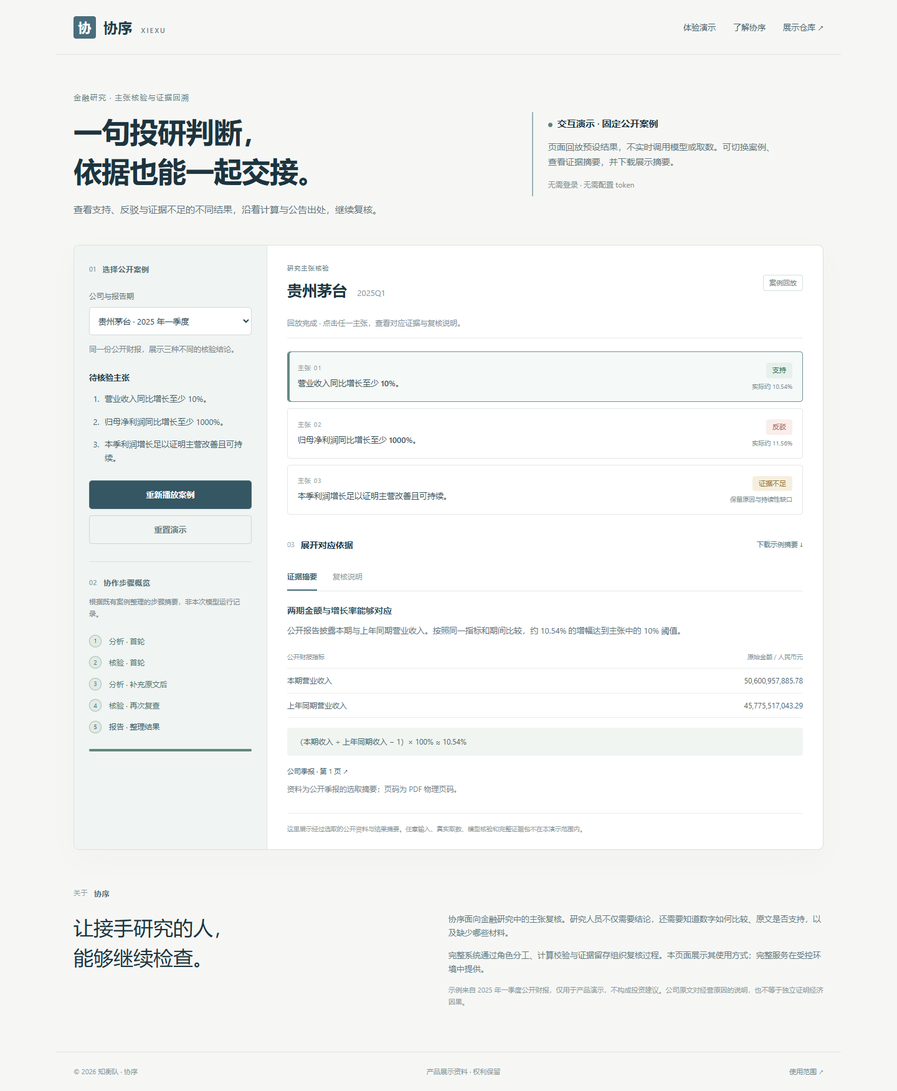
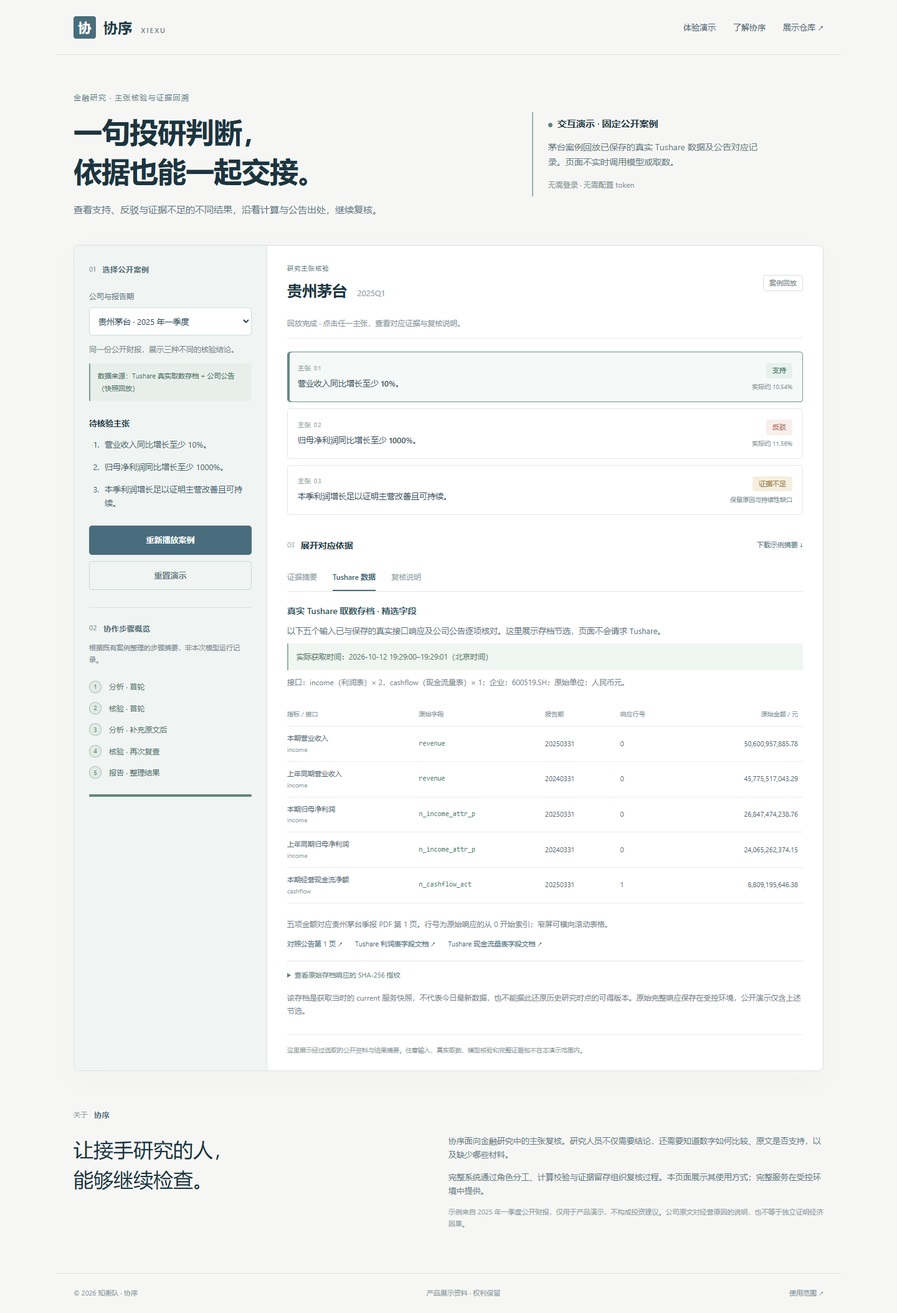
Show verified Tushare snapshot provenance in the product demo

diff --git a/styles.css b/styles.css
@@ -1,1 +1,13 @@
 *{box-sizing:border-box}html{scroll-behavior:smooth;scroll-padding-top:28px}body{margin:0;color:#1d343e;background:#f6f7f5;font-family:"Segoe UI","Microsoft YaHei","PingFang SC",sans-serif;font-size:15px;line-height:1.7}a{color:#3d6677;text-underline-offset:4px}button,select{font:inherit}button{cursor:pointer}button:disabled{cursor:default;opacity:.65}[hidden]{display:none!important}:focus-visible{outline:3px solid #c58b43;outline-offset:4px}.skip{position:fixed;top:-80px;left:18px;padding:10px 18px;background:white;z-index:10}.skip:focus{top:10px}.site-header{max-width:1260px;margin:auto;padding:24px 28px;display:flex;align-items:center;justify-content:space-between;border-bottom:1px solid #dce3df}.brand{display:flex;align-items:center;gap:12px;text-decoration:none;font-weight:700;font-size:23px;color:#203d49}.brand-mark{display:grid;place-items:center;width:36px;height:36px;color:#fff;background:#496d7c;font-size:21px;border-radius:4px}.brand small{font-size:11px;letter-spacing:2px;margin-left:8px;font-weight:500;color:#6d8187}nav{display:flex;gap:28px}nav a{font-size:13px;text-decoration:none;color:#49616b}nav a:hover{text-decoration:underline}main{max-width:1260px;margin:auto;padding:0 28px}.hero{display:grid;grid-template-columns:1.4fr 1fr;gap:80px;align-items:center;padding:58px 0 44px}.eyebrow{font-size:12px;letter-spacing:1.3px;color:#657e87;margin:0 0 13px}h1{font-size:46px;line-height:1.35;letter-spacing:-1px;margin:0;font-weight:650}h2,h3,p{overflow-wrap:anywhere}.hero-description{color:#5d737b;margin:20px 0 0;font-size:15px}.demo-note{border-left:2px solid #9ab1b5;padding:6px 0 6px 24px;max-width:390px}.demo-note strong{font-weight:600}.demo-note p{font-size:14px;color:#657880;margin:12px 0}.note-dot{display:inline-block;width:7px;height:7px;border-radius:50%;background:#5b817e;margin-right:8px}.note-caption{font-size:12px;color:#7f8e91}.workspace{display:grid;grid-template-columns:310px 1fr;border:1px solid #d9e1df;border-radius:9px;overflow:hidden;background:#fff;box-shadow:0 15px 45px #1c343b05;align-items:start}.case-panel{background:#f0f4f2;padding:28px 24px;align-self:stretch;border-right:1px solid #dbe4df}.section-label{display:flex;align-items:center;gap:10px;font-size:12px;letter-spacing:.5px;color:#4f6c75;font-weight:600}.section-label>span{font-size:11px;color:#8d9c9d;font-weight:500}.field-label{display:block;font-size:12px;margin:22px 0 8px;color:#61767d}select{width:100%;padding:12px 10px;color:#254550;background:#fff;border:1px solid #cfdbd6;border-radius:5px;font-size:13px}.muted{font-size:12px;color:#74858b}.small-title{font-size:13px;font-weight:600;margin:25px 0 12px}.input-claims{padding-left:20px;margin:0 0 25px;color:#425e68;font-size:13px}.input-claims li{padding-left:5px;margin:0 0 14px}.button{width:100%;padding:11px 12px;border-radius:5px;font-size:13px;font-weight:600}.primary{border:1px solid #496d7c;background:#496d7c;color:white}.primary:hover:not(:disabled){background:#355663}.secondary{background:transparent;border:1px solid #cbd8d2;color:#647a81;margin-top:10px}.secondary:hover:not(:disabled){background:#e7eeea}.playback-block{border-top:1px solid #d8e1dd;margin-top:28px;padding-top:23px}.playback-note{font-size:11px;margin:12px 0 17px}.steps{list-style:none;padding:0;margin:0}.steps li{display:flex;align-items:center;gap:12px;font-size:12px;color:#8c9b9d;padding:7px 0;transition:color .2s}.step-dot{display:grid;place-items:center;flex:none;width:20px;height:20px;border:1px solid #c9d6d0;border-radius:50%;font-size:10px}.steps li.done{color:#4f736c}.steps li.done .step-dot{background:#e2ebe5;border-color:#a6beb0}.steps li.active{color:#244b60;font-weight:600}.steps li.active .step-dot{background:#496d7c;color:white;border-color:#496d7c}progress{display:block;margin-top:18px;height:4px;width:100%;border:0;appearance:none;background:#dce5df;color:#62877b;border-radius:3px}progress::-webkit-progress-bar{background:#dce5df;border-radius:3px}progress::-webkit-progress-value{background:#62877b;border-radius:3px}progress::-moz-progress-bar{background:#62877b}.result-panel{padding:28px 32px 24px;min-width:0}.panel-header{display:flex;justify-content:space-between;align-items:center;gap:20px}.panel-header .eyebrow{font-size:10px;margin-bottom:6px}.panel-header h2{font-size:24px;margin:0;font-weight:600}.panel-header h2 span{font-size:13px;color:#819299;font-weight:400;margin-left:10px}.mode-label{border:1px solid #d4e0da;border-radius:4px;font-size:11px;padding:3px 9px;color:#6d827b;white-space:nowrap}.status{font-size:12px;color:#7d8f95;padding:14px 0;margin:8px 0 0;border-bottom:1px solid #e7ece8;min-height:48px}.empty-state{display:flex;align-items:center;justify-content:center;flex-direction:column;text-align:center;min-height:494px;padding:35px 25px}.empty-symbol{font-family:Georgia,serif;font-size:85px;line-height:.8;color:#c3d2ce}.empty-state h3{font-size:22px;font-weight:500;margin:25px 0 12px}.empty-state p{font-size:13px;max-width:340px;color:#7f8f93;margin:0}.outcome-legend{display:flex;gap:10px;margin-top:28px}.tag{display:inline-block;font-size:11px;padding:3px 10px;border-radius:4px;white-space:nowrap;font-weight:500}.support{background:#e6f1eb;color:#356b57}.refute{background:#f8eeeb;color:#aa5a48}.insufficient{background:#f6efdf;color:#947337}.claim-results{display:grid;gap:10px;margin-top:21px}.claim-result{display:flex;align-items:center;justify-content:space-between;gap:18px;padding:15px 16px;background:#fff;border:1px solid #e2e7e3;border-radius:5px;text-align:left;width:100%;color:#344d57}.claim-result:hover{background:#f7faf8}.claim-result[aria-pressed="true"]{border-color:#6c9092;background:#f5f9f7;box-shadow:inset 3px 0 #628982}.claim-number{display:block;font-size:10px;color:#8b9c9e;margin-bottom:3px;letter-spacing:1px}.claim-title{font-size:13px;font-weight:500}.claim-end{text-align:right;min-width:78px}.claim-value{display:block;color:#809095;font-size:10px;margin-top:5px}.evidence-header{display:flex;align-items:center;justify-content:space-between;gap:10px;margin-top:31px}.evidence-header>div{display:flex;align-items:center;gap:10px}.section-number{font-size:11px;color:#9aa8a7}.evidence-header h3{font-size:14px;margin:0;font-weight:600}.text-button{border:0;background:transparent;font-size:11px;color:#527580;padding:8px 0}.text-button:hover{text-decoration:underline}.tabs{display:flex;gap:25px;border-bottom:1px solid #e1e9e4;margin:13px 0 0}.tabs button{border:0;border-bottom:2px solid transparent;background:transparent;padding:10px 0;color:#8b9a9d;font-size:12px}.tabs button[aria-selected="true"]{color:#365d6b;border-color:#496d7c;font-weight:600}.detail-panel{padding:19px 0 3px;min-height:270px;font-size:13px;color:#5a7079}.detail-panel h4{font-size:14px;color:#365763;margin:0 0 10px;font-weight:600}.detail-panel p{margin:9px 0}.detail-panel ul{margin:11px 0;padding-left:18px}.detail-panel li{margin:5px 0}table{width:100%;border-collapse:collapse;font-size:12px;margin:14px 0;color:#4e6670}th,td{text-align:left;padding:9px 0;border-bottom:1px solid #e8ede9;font-weight:400}th{font-size:10px;color:#86969c}td:last-child,th:last-child{text-align:right;font-variant-numeric:tabular-nums}.formula{background:#f0f5f2;padding:12px 14px;border-radius:4px;font-size:12px;color:#45665f;margin:16px 0}.source-links{display:flex;flex-wrap:wrap;gap:10px 20px;margin-top:13px}.source-links a{font-size:11px;text-decoration:none}.source-links a:hover{text-decoration:underline}blockquote{margin:12px 0;padding:9px 14px;border-left:2px solid #aac0b6;background:#f8faf8;color:#4b6568}.gap-note{padding:12px 14px;background:#fbf7ed;border-left:2px solid #ccb27e;color:#846e43;font-size:12px;margin-top:14px}.result-footnote{border-top:1px solid #e8eeea;color:#91a0a2;font-size:10px;padding-top:16px;margin:16px 0 0}.about{display:grid;grid-template-columns:1fr 1.2fr;column-gap:100px;padding:60px 0 56px}.about>.section-label{grid-column:1/-1;margin-bottom:20px}.about h2{font-size:32px;line-height:1.5;font-weight:500;margin:0}.about-copy p{font-size:13px;color:#627780;margin:0 0 14px}.about-copy .muted{font-size:11px;color:#8a989b}footer{max-width:1260px;border-top:1px solid #dce3df;margin:auto;display:flex;gap:25px;justify-content:space-between;padding:22px 28px;color:#87969a;font-size:11px}footer a{font-size:11px;text-decoration:none;color:#768b90}@media(max-width:950px){.hero{gap:35px}h1{font-size:37px}.workspace{grid-template-columns:275px 1fr}.case-panel{padding:24px 20px}.result-panel{padding:24px 22px}.about{column-gap:40px}}@media(max-width:720px){.site-header{padding:18px 20px}.brand{font-size:21px}.brand small{display:none}nav{gap:14px}nav a{font-size:11px}nav a:nth-child(2){display:none}main{padding:0 16px}.hero{display:block;padding:32px 4px}h1{font-size:34px}.hero-description{font-size:13px}.demo-note{max-width:none;margin-top:26px;padding-left:17px}.demo-note p{font-size:12px}.workspace{grid-template-columns:1fr}.case-panel{border-right:0;border-bottom:1px solid #dbe4df}.playback-block{margin-top:21px;padding-top:18px}.steps{display:flex;flex-wrap:wrap;gap:5px 14px}.steps li{font-size:10px;gap:6px}.playback-note{font-size:10px}.input-claims{font-size:12px}.input-claims li{margin-bottom:9px}.field-label{margin-top:18px}.result-panel{padding:23px 18px}.panel-header h2{font-size:21px}.claim-result{padding:13px 12px}.claim-title{font-size:12px}.claim-end{min-width:65px}.evidence-header{margin-top:24px}.text-button{font-size:10px}.detail-panel{font-size:12px}table{font-size:11px}.empty-state{min-height:300px}.empty-state h3{font-size:20px}.about{display:block;padding:38px 4px}.about h2{font-size:27px;margin:20px 0}.about-copy p{font-size:12px}footer{padding:20px;flex-wrap:wrap;gap:8px 20px;font-size:10px}}@media(prefers-reduced-motion:reduce){html{scroll-behavior:auto}*{transition:none!important}}
+.data-origin{margin:13px 0 0;padding:10px 12px;border-left:2px solid #789d94;background:#e8efea;color:#456b62;font-size:11px;line-height:1.8}
+.snapshot-caption{padding:11px 13px;border-left:2px solid #94b1a5;background:#f0f6f1;color:#4b7065;font-size:12px}
+.snapshot-table-wrap{max-width:100%;overflow-x:auto;overscroll-behavior-x:contain}
+.snapshot-table{min-width:665px;font-size:11px;table-layout:auto}
+.snapshot-table th,.snapshot-table td{padding:10px 8px;white-space:nowrap}
+.snapshot-table th:first-child,.snapshot-table td:first-child{padding-left:0}
+.snapshot-table small{display:block;color:#8a9b99;font-size:10px}
+.field-code{font-family:Consolas,monospace;font-size:11px;color:#517e75}
+.snapshot-fingerprints{border-top:1px solid #e1e8e3;margin:17px 0;padding-top:13px;font-size:11px}
+.snapshot-fingerprints summary{cursor:pointer;color:#607d7d}
+.snapshot-fingerprints p{margin:13px 0 4px}
+.snapshot-fingerprints code{display:block;overflow-wrap:anywhere;font-size:10px;color:#819290}

diff --git a/demo.js b/demo.js
@@ -6,6 +6,21 @@ const CASES = {
     company: "贵州茅台", code: "600519.SH", period: "2025Q1",
     description: "同一份公开财报，展示三种不同的核验结论。",
     source: "https://www.moutaichina.com/mtgf/articleFileDir/2025-05/08/3329e26c2c524b318c83e6296e354021.pdf",
+    snapshot: {
+      capturedAt: "2026-10-12 19:29:00–19:29:01（北京时间）",
+      rows: [
+        ["本期营业收入", "income", "revenue", "20250331", "50,600,957,885.78", "0"],
+        ["上年同期营业收入", "income", "revenue", "20240331", "45,775,517,043.29", "0"],
+        ["本期归母净利润", "income", "n_income_attr_p", "20250331", "26,847,474,238.76", "0"],
+        ["上年同期归母净利润", "income", "n_income_attr_p", "20240331", "24,065,262,374.15", "0"],
+        ["本期经营现金流净额", "cashflow", "n_cashflow_act", "20250331", "8,809,195,646.38", "1"]
+      ],
+      fingerprints: [
[3 lines of base64/hex data omitted]
+      ]
+    },
     steps: ["分析 · 首轮", "核验 · 首轮", "分析 · 补充原文后", "核验 · 再次复查", "报告 · 整理结果"],
     claims: [
       {
@@ -57,6 +72,7 @@ const CASES = {
 };
 
 const $ = id => document.getElementById(id);
+const TABS = ["evidence", "data", "review"];
 let currentKey = "maotai";
 let selectedClaim = 0;
 let ready = false;
@@ -72,7 +88,7 @@ function el(tag, className, text) {
 
 function setTab(name, moveFocus = false) {
   chosenTab = name;
-  for (const key of ["evidence", "review"]) {
+  for (const key of TABS) {
     const active = key === name;
     $(key + "-tab").setAttribute("aria-selected", String(active));
     $(key + "-tab").tabIndex = active ? 0 : -1;
@@ -86,6 +102,8 @@ function renderCase() {
   ready = false;
   selectedClaim = 0;
   $("case-description").textContent = data.description;
+  $("data-origin").textContent = data.snapshot ? "数据来源：Tushare 真实取数存档 + 公司公告（快照回放）" : "数据来源：公司公开公告（原文核对案例）";
+  $("data-tab").textContent = data.snapshot ? "Tushare 数据" : "资料来源";
   $("input-claims").replaceChildren(...data.claims.map(c => el("li", "", c.title)));
   $("result-company").replaceChildren(document.createTextNode(data.company + " "), el("span", "", data.period));
   $("steps").replaceChildren(...data.steps.map((text, i) => {
@@ -111,7 +129,7 @@ function renderEvidence() {
     const table = el("table");
     const thead = el("thead");
     const header = el("tr");
-    for (const label of ["公开财报指标", "原始金额 / 人民币元"]) {
+    for (const label of [data.snapshot ? "Tushare 存档指标" : "公开财报指标", "原始金额 / 人民币元"]) {
       const th = el("th", "", label);
       th.scope = "col";
       header.append(th);
@@ -146,10 +164,71 @@ function renderEvidence() {
     links.append(a);
   }
   panel.append(links, el("p", "muted", "资料为公开季报的选取摘要；页码为 PDF 物理页码。"));
+  if (data.snapshot) panel.append(el("p", "snapshot-caption", "金额来自已保存的真实 Tushare 接口响应，并与公告对应。获取时间：" + data.snapshot.capturedAt + "。在“Tushare 数据”页签可查看精选字段与原值。"));
   const list = el("ul");
   list.append(...c.review.map(text => el("li", "", text)));
   $("review-panel").replaceChildren(el("h4", "", "为什么得到这个结果"), list,
     el("p", "muted", "页面仅回放预设结果与步骤概述，没有执行新的分析、核验或模型调用。"));
+}
+
+function renderSnapshot() {
+  const data = CASES[currentKey];
+  const panel = $("data-panel");
+  panel.replaceChildren();
+  if (!data.snapshot) {
+    panel.append(el("h4", "", "本案例使用公司公开公告"),
+      el("p", "", "美的案例核对两处公司原文，没有使用 Tushare 取数快照。需要查看接口数据展示，可切换至贵州茅台案例。"));
+    const a = el("a", "", "打开公司季报 ↗");
+    a.href = data.source;
+    a.target = "_blank";
+    a.rel = "noopener noreferrer";
+    panel.append(a);
+    return;
+  }
+  const snapshot = data.snapshot;
+  panel.append(el("h4", "", "真实 Tushare 取数存档 · 精选字段"),
+    el("p", "", "以下五个输入已与保存的真实接口响应及公司公告逐项核对。这里展示存档节选，页面不会请求 Tushare。"),
+    el("p", "snapshot-caption", "实际获取时间：" + snapshot.capturedAt),
+    el("p", "muted", "接口：income（利润表）× 2，cashflow（现金流量表）× 1；企业：600519.SH；原始单位：人民币元。"));
+  const wrapper = el("div", "snapshot-table-wrap");
+  wrapper.tabIndex = 0;
+  wrapper.setAttribute("role", "region");
+  wrapper.setAttribute("aria-label", "Tushare 精选字段表，可左右滚动");
+  const table = el("table", "snapshot-table");
+  const thead = el("thead");
+  const header = el("tr");
+  for (const title of ["指标 / 接口", "原始字段", "报告期", "响应行号", "原始金额 / 元"]) {
+    const th = el("th", "", title);
+    th.scope = "col";
+    header.append(th);
+  }
+  thead.append(header);
+  const tbody = el("tbody");
+  for (const row of snapshot.rows) {
+    const tr = el("tr");
+    const label = el("td");
+    label.append(document.createTextNode(row[0]), el("small", "", row[1]));
+    tr.append(label, el("td", "field-code", row[2]), el("td", "", row[3]), el("td", "", row[5]), el("td", "", row[4]));
+    tbody.append(tr);
+  }
+  table.append(thead, tbody);
+  wrapper.append(table);
+  panel.append(wrapper, el("p", "muted", "五项金额对应贵州茅台季报 PDF 第 1 页。行号为原始响应的从 0 开始索引；窄屏可横向滚动表格。"));
+  const linkRow = el("div", "source-links");
+  for (const [title, href] of [["对照公告第 1 页", data.source + "#page=1"], ["Tushare 利润表字段文档", "https://tushare.pro/document/2?doc_id=33"], ["Tushare 现金流量表字段文档", "https://tushare.pro/document/2?doc_id=44"]]) {
+    const a = el("a", "", title + " ↗");
+    a.href = href;
+    a.target = "_blank";
+    a.rel = "noopener noreferrer";
+    linkRow.append(a);
+  }
+  panel.append(linkRow);
+  const fingerprints = el("details", "snapshot-fingerprints");
+  fingerprints.append(el("summary", "", "查看原始存档响应的 SHA-256 指纹"));
+  for (const [label, digest] of snapshot.fingerprints) {
+    fingerprints.append(el("p", "muted", label), el("code", "", digest));
+  }
+  panel.append(fingerprints, el("p", "muted", "该存档是获取当时的 current 服务快照，不代表今日最新数据，也不能据此还原历史研究时点的可得版本。原始完整响应保存在受控环境，公开演示仅含上述节选。"));
 }
 
 function renderResults() {
@@ -170,6 +249,7 @@ function renderResults() {
     return button;
   }));
   renderEvidence();
+  renderSnapshot();
   setTab(chosenTab);
 }
 
@@ -218,6 +298,12 @@ function downloadSummary() {
   const data = CASES[currentKey];
   const lines = ["协序 · 产品演示摘要", data.company + " / " + data.code + " / " + data.period, "",
     "固定案例回放；不代表本次执行了真实模型核验或数据获取。", ""];
+  if (data.snapshot) {
+    lines.push("金额来源：已保存的真实 Tushare 取数快照，并与公司公告核对。", "实际获取时间：" + data.snapshot.capturedAt,
+      "精选字段（指标 / 接口 / 字段 / 报告期 / 原始金额，人民币元 / 从0开始响应行号）：");
+    for (const row of data.snapshot.rows) lines.push(row.join(" / "));
+    lines.push("该存档不代表今日最新数据，不用于直接还原历史时点可得版本。", "");
+  } else lines.push("本案例资料来源：公司公开公告；未使用 Tushare 取数快照。", "");
   data.claims.forEach((c, i) => {
     lines.push("主张 " + (i + 1) + "：" + c.title, "展示结果：" + c.status + "；" + c.value, c.description);
     for (const row of c.rows || []) lines.push(row[0] + "：" + row[1] + " 元");
@@ -247,12 +333,13 @@ $("case-select").addEventListener("change", event => {
 $("run-demo").addEventListener("click", runPlayback);
 $("reset-demo").addEventListener("click", () => { if (!playing) renderCase(); });
 $("download-summary").addEventListener("click", downloadSummary);
-for (const name of ["evidence", "review"]) {
+for (const name of TABS) {
   $(name + "-tab").addEventListener("click", () => setTab(name));
   $(name + "-tab").addEventListener("keydown", event => {
     if (event.key === "ArrowLeft" || event.key === "ArrowRight") {
       event.preventDefault();
-      setTab(name === "evidence" ? "review" : "evidence", true);
+      const offset = event.key === "ArrowRight" ? 1 : -1;
+      setTab(TABS[(TABS.indexOf(name) + offset + TABS.length) % TABS.length], true);
     }
   });
 }

diff --git a/index.html b/index.html
@@ -3,13 +3,13 @@
 <head>
   <meta charset="utf-8">
   <meta name="viewport" content="width=device-width,initial-scale=1">
-  <meta name="description" content="协序产品演示：通过固定公开财报案例，体验研究主张核验、证据摘要与多角色复核过程。">
+  <meta name="description" content="协序产品演示：回放已保存的真实 Tushare 财务数据与公告核对案例，体验研究主张核验和证据回溯。">
   <meta http-equiv="Content-Security-Policy" content="default-src 'none'; script-src 'self'; style-src 'self'; img-src 'self' data:; connect-src 'none'; base-uri 'none'; form-action 'none'; object-src 'none'">
   <meta name="theme-color" content="#496d7c">
   <title>协序 · 产品演示</title>
   <link rel="icon" href="assets/mark.svg" type="image/svg+xml">
-  <link rel="stylesheet" href="styles.css">
-  <script src="demo.js" defer></script>
+  <link rel="stylesheet" href="styles.css?v=20261027-tushare">
+  <script src="demo.js?v=20261027-tushare" defer></script>
 </head>
 <body>
   <a class="skip" href="#workspace">跳到演示工作台</a>
@@ -26,7 +26,7 @@
       </div>
       <aside class="demo-note" aria-label="演示范围">
         <span class="note-dot" aria-hidden="true"></span><strong>交互演示 · 固定公开案例</strong>
-        <p>页面回放预设结果，不实时调用模型或取数。可切换案例、查看证据摘要，并下载展示摘要。</p>
+        <p>茅台案例回放已保存的真实 Tushare 数据及公告对应记录。页面不实时调用模型或取数。</p>
         <span class="note-caption">无需登录 · 无需配置 token</span>
       </aside>
     </section>
@@ -39,6 +39,7 @@
           <option value="midea">美的集团 · 2025 年一季度</option>
         </select>
         <p id="case-description" class="muted"></p>
+        <p id="data-origin" class="data-origin"></p>
         <h2 class="small-title">待核验主张</h2>
         <ol id="input-claims" class="input-claims"></ol>
         <button id="run-demo" class="button primary" type="button">播放案例</button>
@@ -70,9 +71,11 @@
           </div>
           <div class="tabs" role="tablist" aria-label="结果详情">
             <button id="evidence-tab" role="tab" aria-selected="true" aria-controls="evidence-panel" tabindex="0">证据摘要</button>
+            <button id="data-tab" role="tab" aria-selected="false" aria-controls="data-panel" tabindex="-1">Tushare 数据</button>
             <button id="review-tab" role="tab" aria-selected="false" aria-controls="review-panel" tabindex="-1">复核说明</button>
           </div>
           <section id="evidence-panel" class="detail-panel" role="tabpanel" aria-labelledby="evidence-tab"></section>
+          <section id="data-panel" class="detail-panel" role="tabpanel" aria-labelledby="data-tab" hidden></section>
           <section id="review-panel" class="detail-panel" role="tabpanel" aria-labelledby="review-tab" hidden></section>
           <p class="result-footnote">这里展示经过选取的公开资料与结果摘要。任意输入、真实取数、模型核验和完整证据包不在本演示范围内。</p>
         </div>

diff --git a/SOURCES.md b/SOURCES.md
@@ -1,6 +1,24 @@
 # 公开案例资料
 
-演示仅保留说明结果所需的少量金额及原文摘要，不分发整份财报。
+演示仅保留说明结果所需的少量金额、取数来源信息及原文摘要，不分发整份财报或完整接口响应。
+
+## 贵州茅台 · 真实 Tushare 快照节选
+
+来源为已保存并检查原始响应指纹的真实取数存档，获取时间为 **2026 年 10 月 12 日北京时间 19:29:00–19:29:01**。企业代码为 600519.SH，原始金额单位为人民币元。
+
+| 输入 | 接口 | 字段 | 报告期 | 原始金额 | 响应行号 |
+| --- | --- | --- | --- | ---: | ---: |
+| 本期营业收入 | income | revenue | 20250331 | 50,600,957,885.78 | 0 |
+| 上年同期营业收入 | income | revenue | 20240331 | 45,775,517,043.29 | 0 |
+| 本期归母净利润 | income | n_income_attr_p | 20250331 | 26,847,474,238.76 | 0 |
+| 上年同期归母净利润 | income | n_income_attr_p | 20240331 | 24,065,262,374.15 | 0 |
+| 本期经营现金流净额 | cashflow | n_cashflow_act | 20250331 | 8,809,195,646.38 | 1 |
+
+行号为原始响应的从 0 开始索引。五项输入均可与下述公司公告物理第 1 页对应。利润表请求两次，分别获取本期与比较期；现金流量表请求一次。公开页面仅展示精选字段、少量元信息与响应指纹，完整响应保留在受控环境。
+
+该存档属于获取当时的 current 服务快照，不代表今日最新版本，也不能仅凭财报所属季度推定其在历史研究时点可得。
+
+字段说明见 Tushare 官方的 [利润表](https://tushare.pro/document/2?doc_id=33) 和 [现金流量表](https://tushare.pro/document/2?doc_id=44) 文档。
 
 ## 贵州茅台 · 2025 年第一季度报告
 
@@ -25,4 +43,4 @@ PDF 物理第 1 页，金额单位为人民币元：
 
 演示比较待核验表述和上述公司说明是否一致，不将公司说明视为独立的经济因果证明。
 
-以上资料的权利归各原权利人所有。展示页中的金额、示例公式与摘述为固定案例内容，不是本次实时取数或模型运行的输出。
+美的案例使用上述公告原文，不包含 Tushare 取数快照。以上资料的权利归各原权利人所有。展示页中的金额、示例公式与摘述为固定案例内容，不是本次实时取数或模型运行的输出。

diff --git a/README.md b/README.md
@@ -6,7 +6,7 @@
 
 协序关注研究结论交接时的证据复核：数字怎样比较、公司原文是否支持某个表述、哪些条件仍然缺失。
 
-本仓库提供固定公开案例的交互演示，便于了解产品的使用方式。页面回放预设结果，不实时调用大模型或财务接口。
+本仓库提供固定公开案例的交互演示，便于了解产品的使用方式。贵州茅台案例展示已保存的真实 Tushare 财务数据及公告对应记录，美的集团案例展示公告原文核对。页面回放既有资料与预设结果，不实时调用大模型或财务接口。
 
 ![协序交互演示](assets/demo-preview.png)
 
@@ -15,15 +15,17 @@
 1. 选择贵州茅台或美的集团的 2025 年一季度案例。
 2. 点击“播放案例”，查看协作步骤概览。
 3. 点击不同主张，比较支持、反驳和证据不足的结果。
-4. 展开证据摘要，查看公开金额、示例公式、原文摘要及公告页码。
+4. 展开证据摘要，查看公开金额、示例公式、原文摘要及公告页码；在茅台案例点击“Tushare 数据”，查看五个精选输入的接口字段、报告期、原值、行号及获取时间。
 5. 打开公司公告，或下载本案例的展示摘要。
 
 | 案例 | 展示内容 |
 | --- | --- |
-| 贵州茅台 2025Q1 | 收入增长阈值获支持、错误利润增长阈值被反驳、原因与持续性主张保留证据不足 |
+| 贵州茅台 2025Q1 | 真实 Tushare 快照与公告对应；收入增长阈值获支持、错误利润增长阈值被反驳、原因与持续性主张保留证据不足 |
 | 美的集团 2025Q1 | 对照两处公司说明，识别把不同事项的解释接错的表述 |
 
-步骤文案为案例概述，不是原始模型输入输出。下载文件只包含当前演示的结果摘要。
+茅台案例的快照于 2026 年 10 月 12 日北京时间 19:29 实际获取，涉及 income 与 cashflow 接口。公开展示仅选取五个已与公告核对的字段，不分发完整响应。快照不是今日最新数据，也不能直接作为历史时点数据库使用。
+
+步骤文案为案例概述，不是原始模型输入输出。下载文件只包含当前演示的精选字段和结果摘要。
 
 ## 展示范围
 
